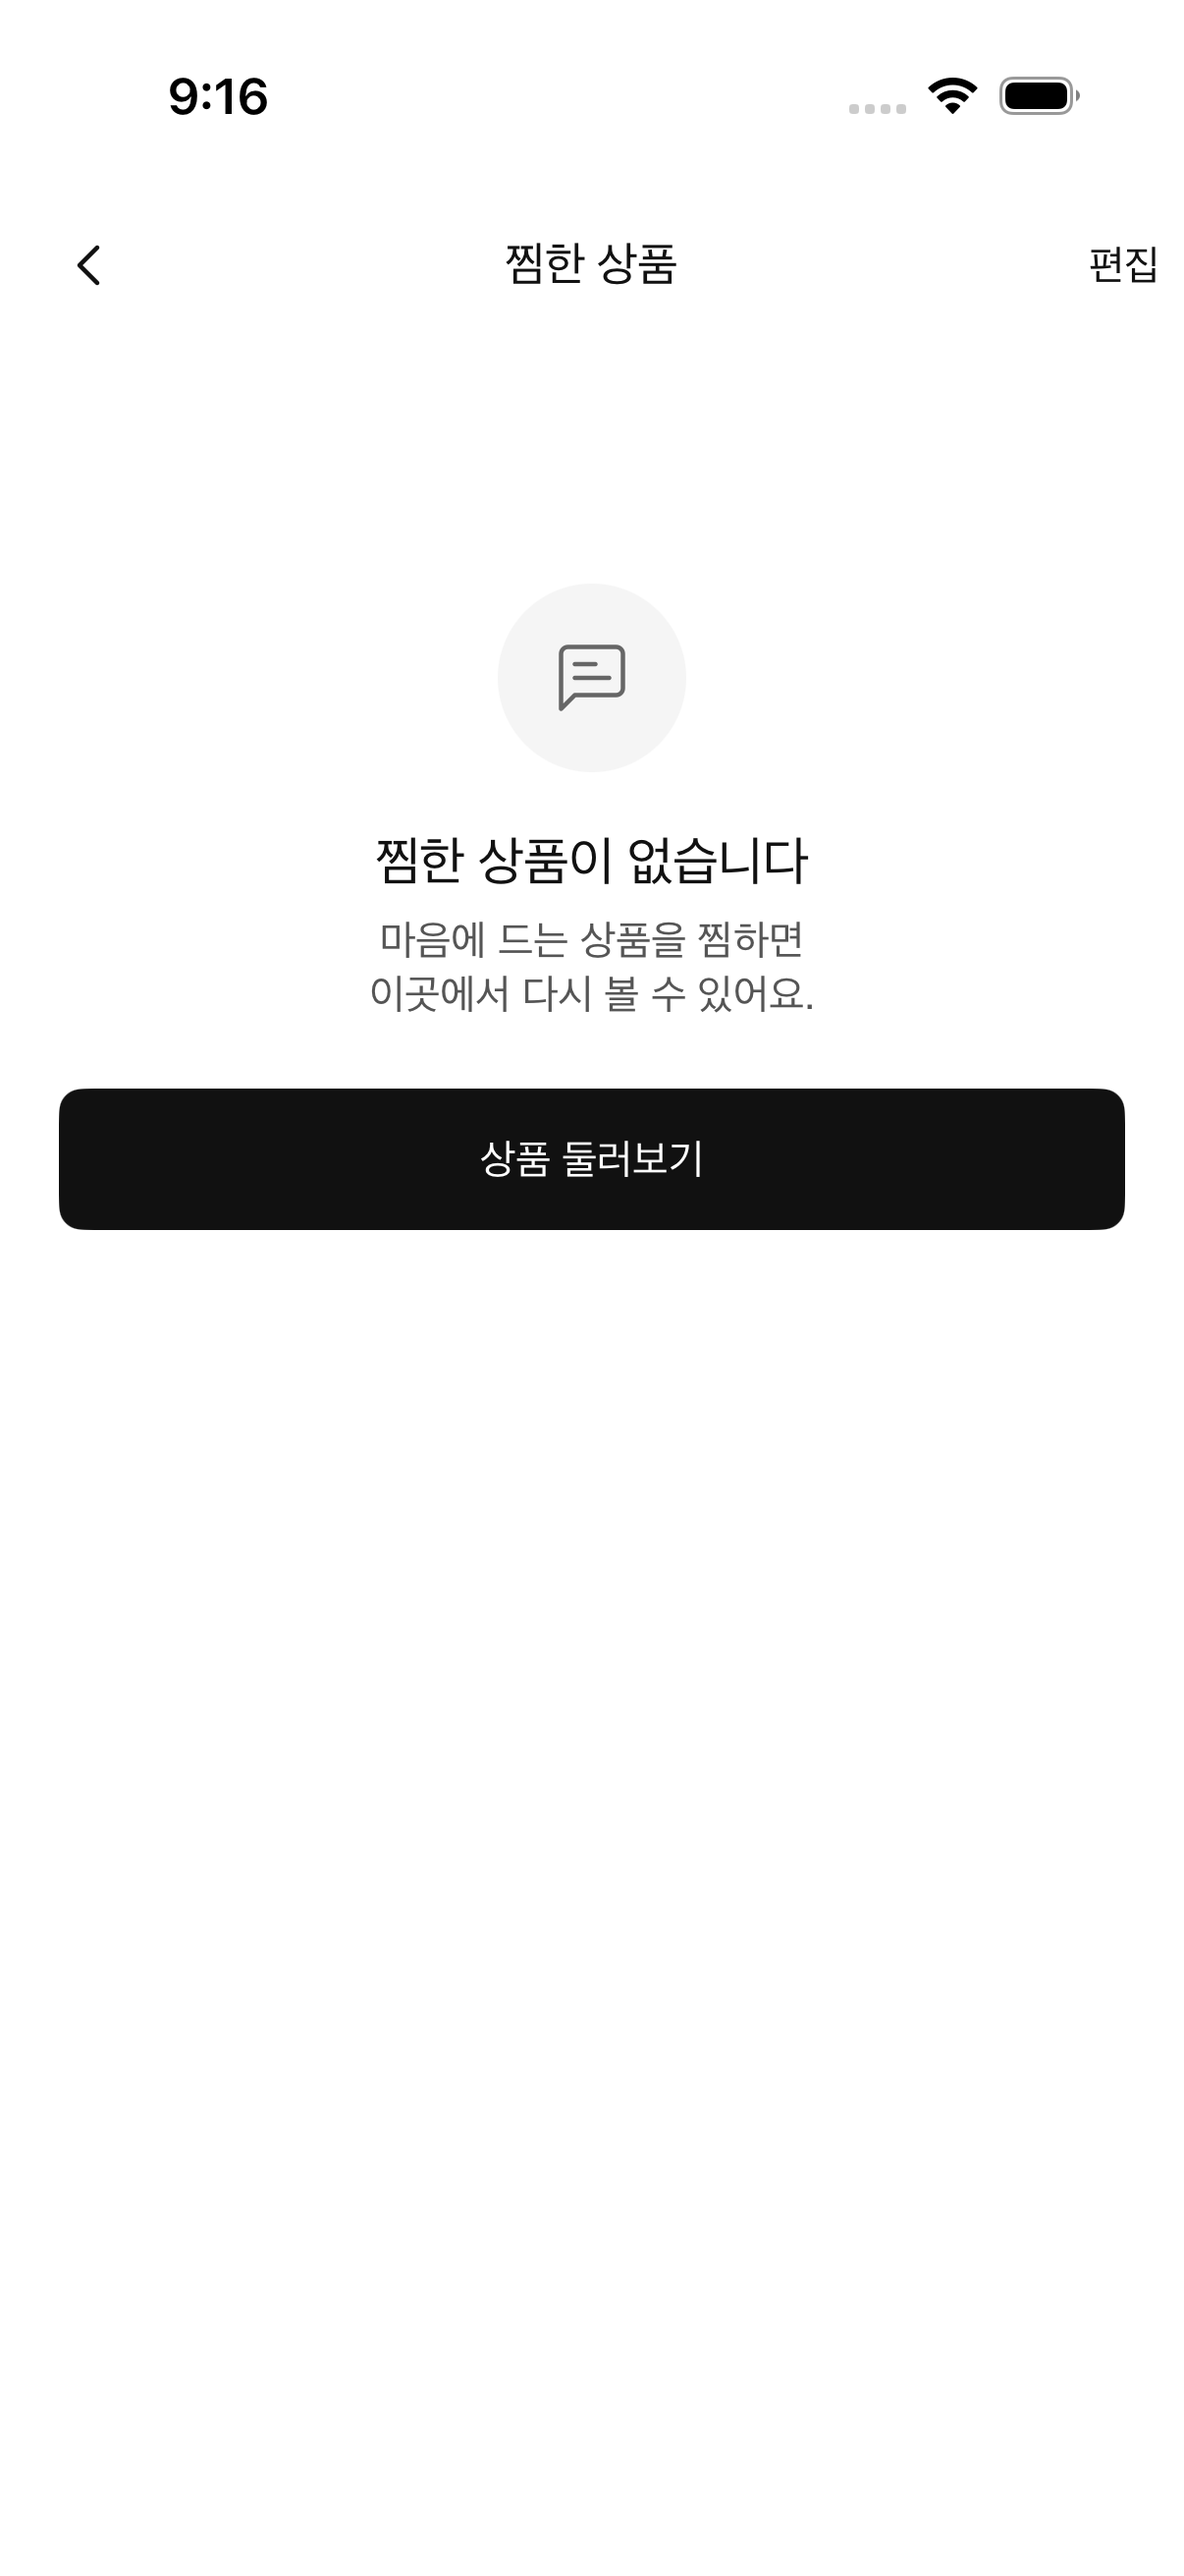
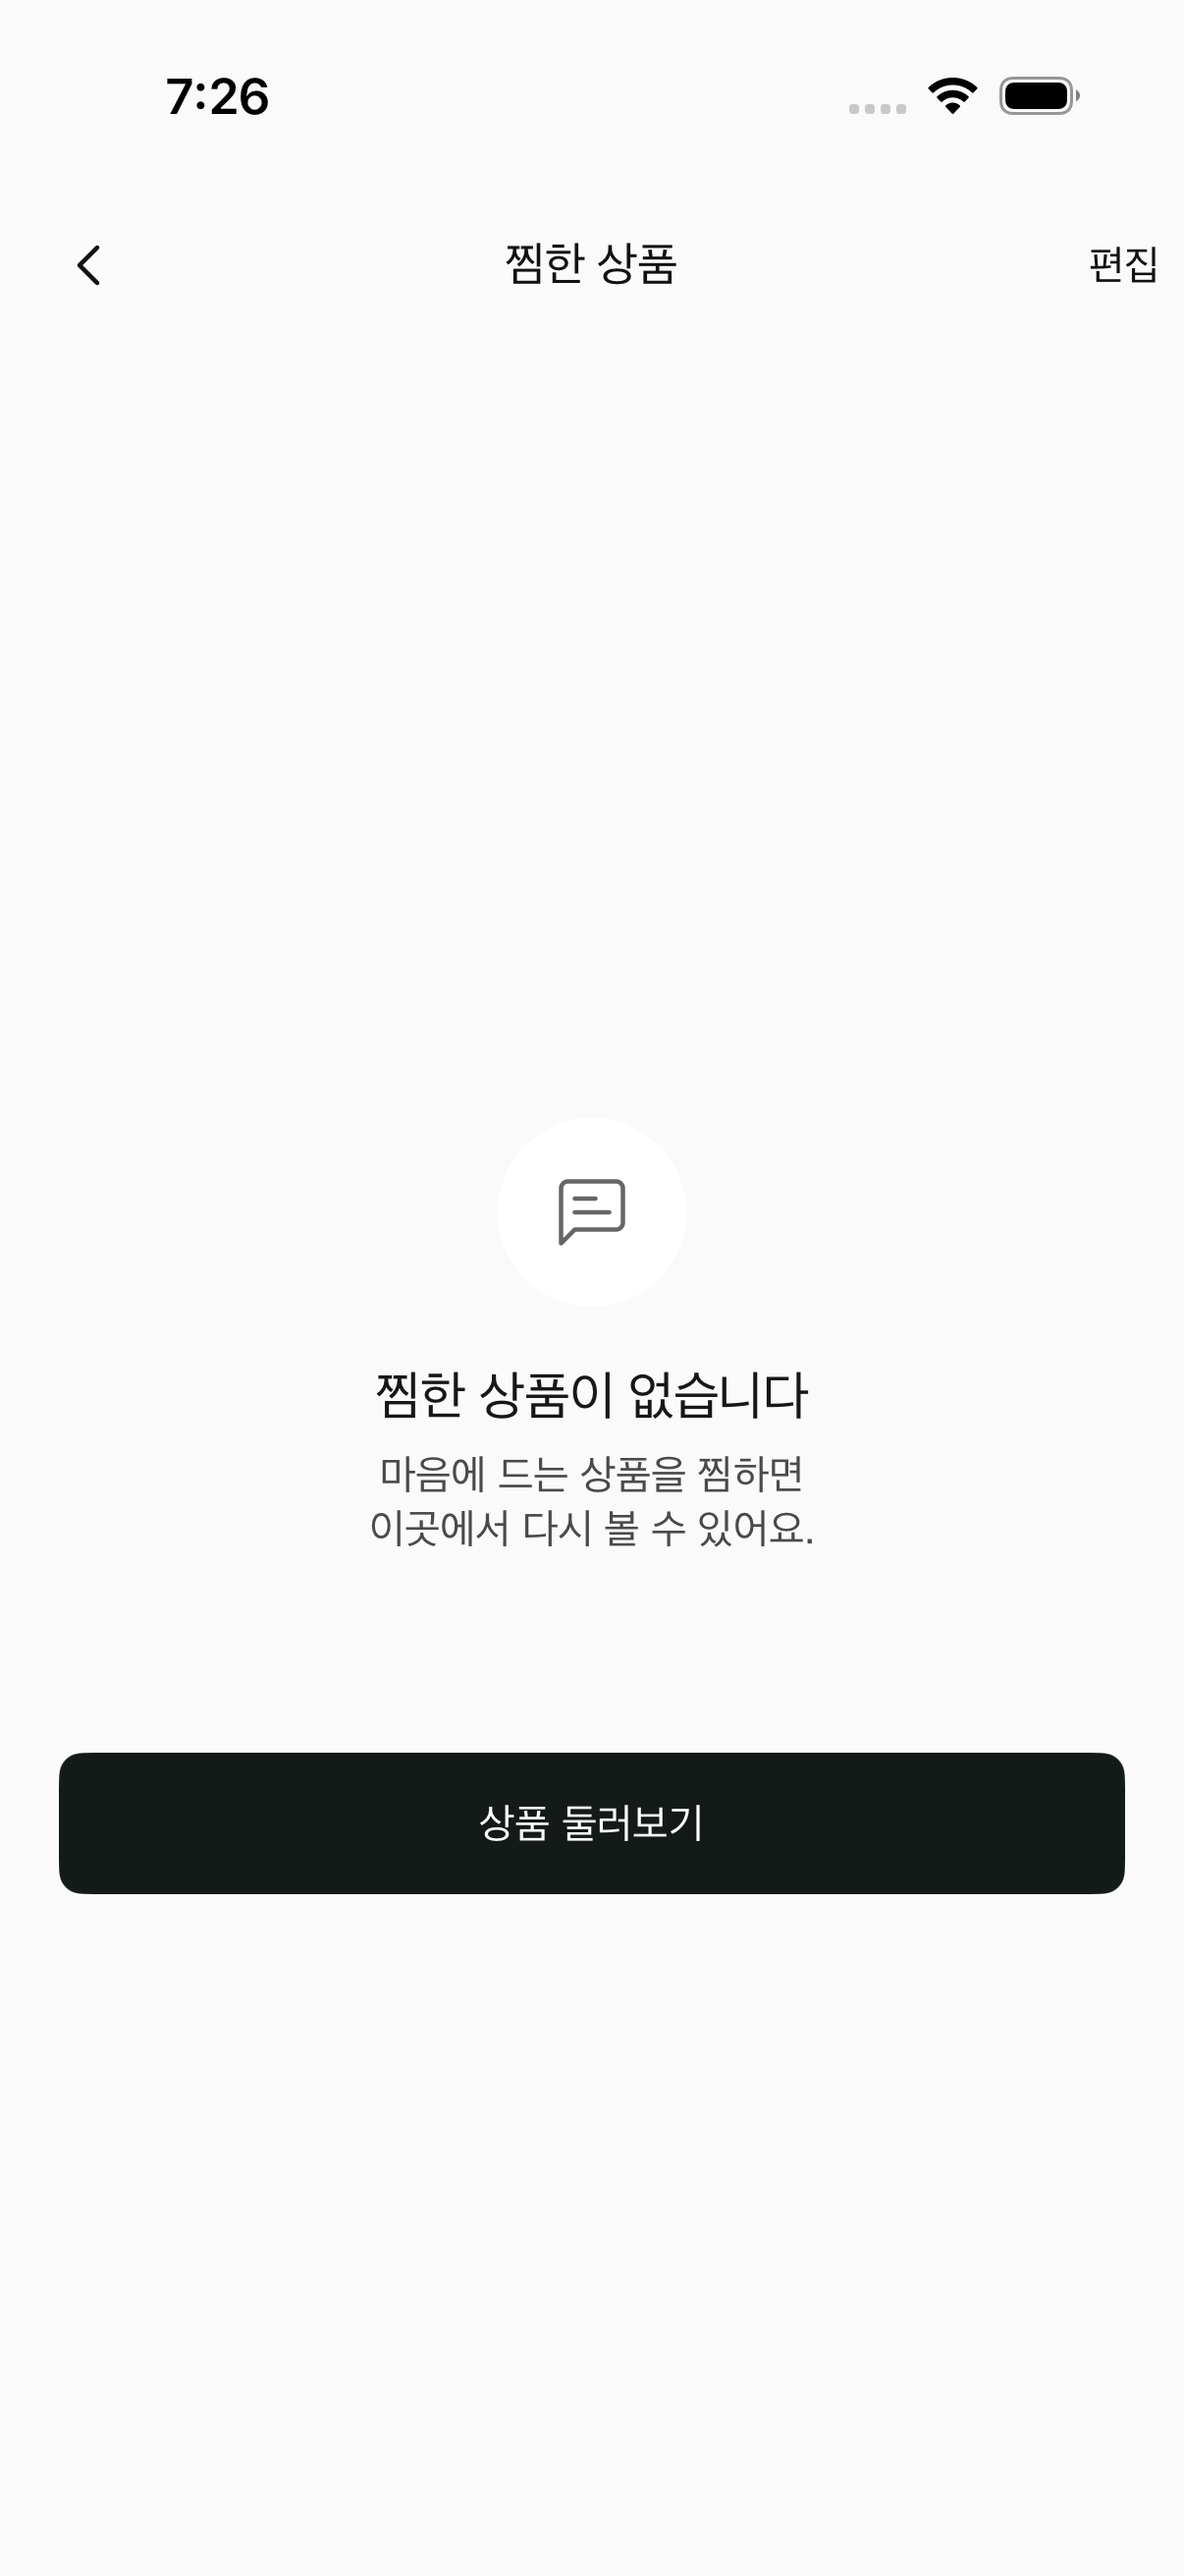
docs: 최신 빈 상태·신청 흐름 캡처와 전체 검증 기록 (#252, #253)

diff --git a/Docs/Design/RETURN_FLOW_PARITY.md b/Docs/Design/RETURN_FLOW_PARITY.md
@@ -1,0 +1,37 @@
+# Latest cancel, return and exchange flow (#253)
+
+Figma file: `N3Ic9TfSnUBVMgAuayBVly`. Designs and variables were inspected read-only; the Figma file was not changed.
+
+| Screen | Figma node | Implementation / route | Capture |
+| --- | --- | --- | --- |
+| A-19c hub | 927:8508 | My Page / order history → hub → orders, history, or order selection | [Hub](../Screenshots/A19c-return-hub.png) |
+| A-19s order selection | 929:46104 | Status/period controls, order details, tracking, select order → request | [Selection](../Screenshots/A19s-order-selection.png) |
+| A-19a cancellation | 879:44844 | Shared request form: cancellation tab, products, reason, photos, refund notice | [Cancel](../Screenshots/A19a-cancel-request.png) |
+| A-19b exchange | 879:44922 | Shared form: photos, option/stock notice, pickup, exchange costs | [Exchange](../Screenshots/A19b-exchange-request.png), [Costs](../Screenshots/A19b-exchange-cost.png) |
+| A-19le empty history | 927:44448 | Empty history → orders → back restores empty state | [Empty](../Screenshots/A19le-return-empty.png) |
+| A-19l cancellation filter | 927:45466 | Cancellation badge and rejection reason action | [Cancel filter](../Screenshots/A19l-cancel-filter.png) |
+| A-19l return filter | 927:45597 | Requested / collecting states, refund row, withdrawal action | [Return filter](../Screenshots/A19l-return-filter.png) |
+| A-19l exchange filter | 927:45728 | Exchange complete state; no unrelated refund row | [Exchange filter](../Screenshots/A19l-exchange-filter.png) |
+| A-54 rejection reason | 927:45901 | Rejected request → reason screen → back retains history filter | [Reason](../Screenshots/A54-rejection-reason.png) |
+
+The shared empty-state correction also covers previously implemented A-16e (`927:44328`) and A-20e (`927:44560`): their icon, resolved colors, central placement and CTA are aligned with the current frames, with their existing browse/back paths preserved.
+
+## State and actions
+
+- Uses existing HomeNavigationPath and retained view models. The active request receives the selected order; awaiting-payment/paid orders initially open cancellation, transit/delivered orders initially open return. Tabs remain switchable in this local UI. This initial choice is not server eligibility validation.
+- Order history cancellation now opens the request form. The hub and all request/history back buttons return through the existing stack. Selection filters remain when returning from the form.
+- Product selection, quantity, reason, details, photo picker/removal, request tabs and pickup choices remain interactive. Address change opens the existing address screen. The bottom submit action retains the explicit service-unavailable alert; it does not create an order request, refund, or exchange.
+- Request details and withdrawal continue through their existing screens. Rejection details use the selected item rather than claiming a fabricated backend result or request number.
+
+## Visual implementation
+
+- Exported request and rejection SVGs are local asset catalog files. Native asset dimensions were retained (24 pt back, 14 pt check, 32 pt placeholder, 16 pt stepper/info, 20 pt photo-add, 12 pt photo-remove, 14 pt pickup radio, 20 pt rejection icons).
+- Status badge colors and order-selection placeholder geometry follow the inspected designs. Existing design-system typography and controls are reused.
+- Resolved Figma variables for the selected frames include `hf/bg=#fafafa`, `hf/surface=#ffffff`, `hf/text-1=#171717`, `hf/text-2=#4a4a4a`. Empty-state colors are scoped to the implemented frames so other app screens retain their existing palette. The five account-empty captures from #252 are refreshed in this change.
+- Device status bar/home indicator and viewport height use native iOS behavior. Long Figma frames appear as scrollable content; captures document initial and lower sections separately. Filter captures may include native press feedback immediately after selection.
+
+## Verification
+
+Strict SwiftLint, diff checks, request/history ViewModel tests and account/return UI navigation tests were run. UI coverage includes all three hub routes, cancellation/exchange/return form entry, submit feedback, filtered history, rejection detail, empty history, and back-state restoration. Exact final full-suite and CI outcomes are recorded in the PR. Screenshots are simulator evidence, not physical-device verification. Server communication is outside this change.
+
+Local verification: the full suite passed 193 tests (168 unit + 25 UI). After final visual corrections, the five affected favorites/order-history/return-flow UI tests passed again. The first remote #254 run failed two new account-empty tests because XCTest attempted an AX scroll on a visible back button; those tests now select the hittable back button and tap its center, following the existing route-test convention. The final combined PR closes #252 and #253; its CI result is the final merge gate.

diff --git a/Docs/Design/ACCOUNT_EMPTY_STATES_PARITY.md b/Docs/Design/ACCOUNT_EMPTY_STATES_PARITY.md
@@ -13,3 +13,5 @@ Figma file: N3Ic9TfSnUBVMgAuayBVly. Read-only design inspection; SwiftUI impleme
 Shared AccountEmptyState follows inspected 64/28 pt icon, 20/8/24 spacing and 48 pt dark green CTA. The exported icon was byte-compared with the existing FavoritesEmpty SVG (identical). Empty lists hide controls that the empty Figma frames omit; empty filtered results keep their filters available. Existing mock samples remain the default. Initializers accept explicit empty data; the debug-only UI fixture makes those actual states testable without changing release behavior.
 
 Verification: strict SwiftLint and 16 existing ViewModel tests plus 3 UI tests passed on iPhone 17 Pro / iOS 26.5. Captures were visually inspected. Native status/home indicator and available viewport height follow the device; Figma frames have varied canvas heights. No server persistence or physical-device verification.
+
+Final resolved Figma colors and refreshed captures are included with #253 in the combined PR: background #fafafa, icon circle #ffffff, title #171717 and description #4a4a4a.

diff --git a/Docs/Design/ROUTE_AUDIT.md b/Docs/Design/ROUTE_AUDIT.md
@@ -126,3 +126,7 @@ Figma `927:44560`: 마이 → 찜한 상품 → 마지막 찜 삭제 → 빈 상
 ## Account empty states (#252)
 
 A-21e / A-22e / A-22pe / A-24e / A-25e implemented. Exact nodes, screenshots, routes and verification: [ACCOUNT_EMPTY_STATES_PARITY.md](ACCOUNT_EMPTY_STATES_PARITY.md).
+
+## Latest cancel / return / exchange flow (#253)
+
+A-19c, A-19s, A-19a, A-19b, A-19le, three A-19l filters and A-54 are connected. Existing A-16e/A-20e empty screens use the same latest layout. Node IDs, captures and back routes: [RETURN_FLOW_PARITY.md](RETURN_FLOW_PARITY.md).

diff --git a/Docs/Design/SCREEN_INVENTORY.md b/Docs/Design/SCREEN_INVENTORY.md
@@ -114,3 +114,7 @@ Figma `927:44560`: 마이 → 찜한 상품 → 마지막 찜 삭제 → 빈 상
 ## Account empty states (#252)
 
 A-21e / A-22e / A-22pe / A-24e / A-25e implemented. Exact nodes, screenshots, routes and verification: [ACCOUNT_EMPTY_STATES_PARITY.md](ACCOUNT_EMPTY_STATES_PARITY.md).
+
+## Latest cancel / return / exchange flow (#253)
+
+A-19c, A-19s, A-19a, A-19b, A-19le, three A-19l filters and A-54 are connected. Existing A-16e/A-20e empty screens use the same latest layout. Node IDs, captures and back routes: [RETURN_FLOW_PARITY.md](RETURN_FLOW_PARITY.md).
